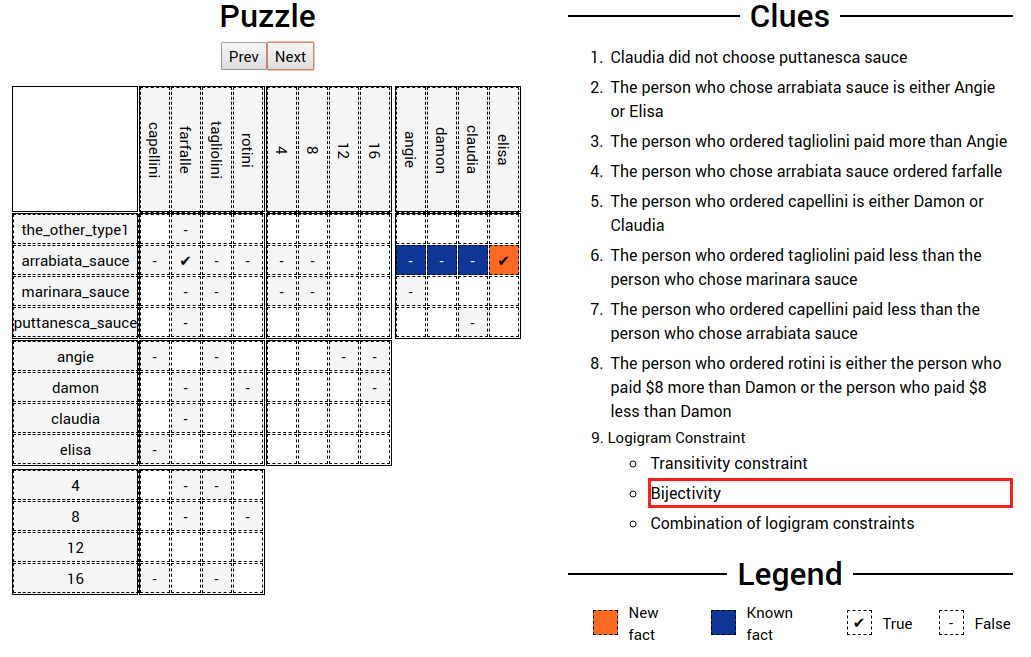
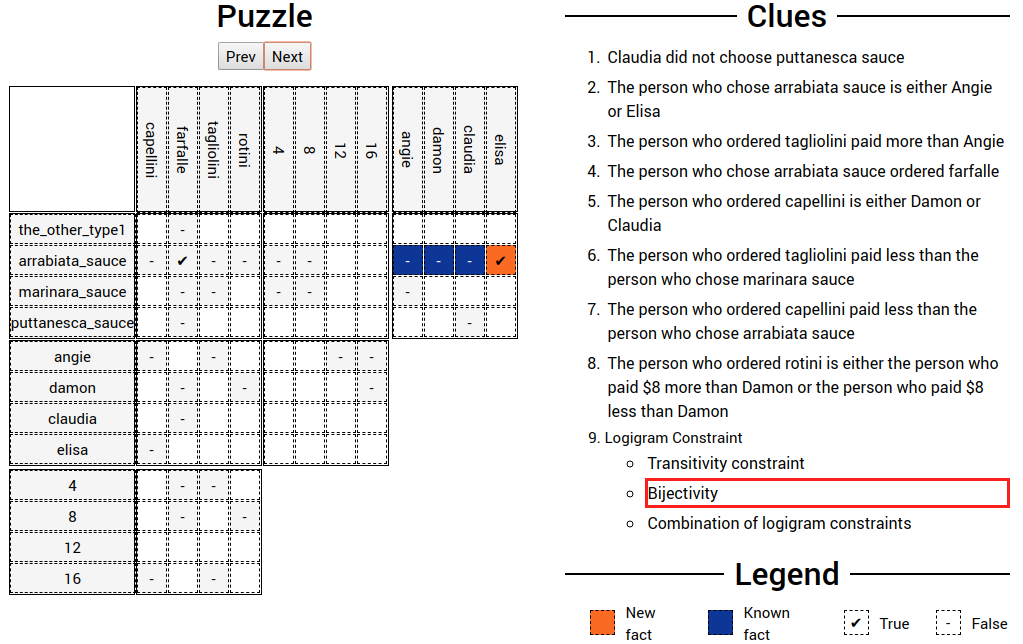
modified graphs to fit

Changed region(s): [[0.0, 0.0, 0.5152, 0.9317], [0.5455, 0.0, 1.0, 0.9938], [0.8182, 0.9317, 1.0, 0.9938]]

diff --git a/latex/ecai20/files/7_experiments.tex b/latex/ecai20/files/7_experiments.tex
@@ -21,7 +21,6 @@ Coincidentally, almost all the puzzles have 4 types with domain size 5,
 %  \todo{EMILIO: FIX, also the table!}, 
 hence 150 cells, except for the pasta puzzle which has 4 types, with domain size 4, thus 96 cells. We notice that the number of inference steps is around 120 for all but the pasta puzzle. When investigating the proportion of the inference steps that use bijections (only), transitivity (only) or a clue, we can see that around 50\% the explanations typically use a transitivity constraint, around 25\% typically a trivial bijectivity constraint (e.g. completing a row or column in one relation), and less then $1/5$th of the explanations actually need to use a clue.
 In the table, \#m-i and \#m-c refer to the use of multiple implicit constraints and multiple clues respectively. We can see that it is never necessary to combine multiple constraints in one inference step. Also, notably, the puzzles from the booklet never require combining implicit constraints, while the anecdotically hard pasta puzzle is the only one that does: it cannot be solved by focussing on the clues but requires combining facts and knowledge in the table alone to crack it.
-
 \begin{table}
 	\centering
 	\resizebox{\columnwidth}{!}{%
@@ -50,28 +49,25 @@ In the table, \#m-i and \#m-c refer to the use of multiple implicit constraints 
 \caption{Composition of puzzle explanations}
 \label{table:composition}
 \end{table}
+\setlength{\parskip}{-12pt}
 
-\addtolength{\parskip}{-0.5cm}
-
-\paragraph{2. Sequence progression}
-Figure \ref{fig:steps} shows a visualisation the type of explanation used at every step of the sequence, for some different puzzles. The red line is the pasta puzzle. We can see that typically at the beginning of the sequence, clues (4th line) and bijectivity (2nd line) are used, i.e., the trivial ones. This is then followed by a round of clues and some bijectivity/transitivity, after which a large fraction of the table can be completed with bijectivity/transitivty, followed by a few last clues and another round of completion.
-\addtolength{\parskip}{0.5cm}
+\myparagraph{2. Sequence progression} Figure \ref{fig:steps} shows a visualisation the type of explanation used at every step of the sequence, for some different puzzles. The red line is the pasta puzzle. We can see that typically at the beginning of the sequence, clues (4th line) and bijectivity (2nd line) are used, i.e., the trivial ones. This is then followed by a round of clues and some bijectivity/transitivity, after which a large fraction of the table can be completed with bijectivity/transitivty, followed by a few last clues and another round of completion.\setlength{\parskip}{0pt}
 
 The exception to this is the pasta puzzle. We can see that after around 20 steps where mostly clues have been used, twice a combination of implicit logigram constraints must be used to derive a new fact, after which the table can be easily completed with bijectivity/transitivity and twice the use of a clue.
 
-\begin{figure*}[t]
+\begin{figure}[H]
 \centering
-% \includegraphics[width=0.32\linewidth]{figures/plot_cost_steps_p12}
 \includegraphics[width=0.32\linewidth]{figures/plot_cost_steps_p18}
 \includegraphics[width=0.32\linewidth]{figures/plot_cost_steps_p25}
-\includegraphics[width=0.32\linewidth]{figures/plot_cost_steps_nielspasta}
-\caption{Type of constraints used in each step}
+\includegraphics[width=0.32\linewidth]{figures/plot_cost_steps_nielspasta}\caption{Type of constraints used in each step}
 \label{fig:steps}
-\end{figure*}
-\todo{in case of space constraints: make figure smaller again. }
+\end{figure}
+%\todo{in case of space constraints: make figure smaller again. }
+\setlength{\parskip}{-12pt}
 
 \myparagraph{3. Explanation size.}
-Our cost-function is constructed to favor few (if any) clues and constraints in the explanations, and few previously derived facts $|E|$. Table~\ref{table:sequence_leve} shows the average number of facts used per explanation. We also show the average number of facts used when using only bijectivity or transitivity, or when a clue is used.
+Our cost-function is constructed to favor few (if any) clues and constraints in the explanations, and few previously derived facts $|E|$. Table~\ref{table:sequence_leve} shows the average number of facts used per explanation. We also show the average number of facts used when using only bijectivity or transitivity, or when a clue is used.\setlength{\parskip}{0pt}
+
 
 We can observe that the average number of facts used is indeed low, less than two. Furthermore, the breakdown shows that bijectivity typically uses more facts: it uses three `negative' facts in one row to infer a `positive' fact, as in Figure~\ref{fig:zebrascreen} or it uses one `positive' fact to infer three negative facts. Note that for such an intuitive constraint, the number of facts used does not matter much. Transitivity, by nature, always uses two previously derived facts. Finally, when looking at the number of facts used together with a clue we can see that our approach successfully finds small explanations: many clues (the trivial ones) use no facts, while some use 1 fact and only occasionally 2 or more facts are needed. The exception is again the difficult pasta puzzle.
 
@@ -110,3 +106,7 @@ We can observe that the average number of facts used is indeed low, less than tw
 % 			pasta & 4 & 5 & 150 & 82 & 34.15 & 40.24 & 21.95 & 2.44 & 0\\ 
 %\paragraph{Bonus. How well does it compare to human solving process ?} 
 % TODO Compare with the tutorial puzzle of logicgridpuzzles.com? Ideally, a small human evaluation (e.g. ask people to solve a 3-with-3 puzzle and note the order of derivations and clues used, compare this `ranking' to our ranking, discuss some differences.
+
+
+
+

diff --git a/latex/ecai20/files/5_good_ordering.tex b/latex/ecai20/files/5_good_ordering.tex
@@ -42,17 +42,19 @@ The effect of this,  is that we can generate our subsets $S$ in Line \ref{alg:mi
 \end{compactitem}
 Summarized, our instantiation for logic grid puzzles differs from the generic methods developed in the previous section in that it uses a domain-specific optimization function $f$ and does not considering all $S$ in Line \ref{alg:min:for}, but only promising candidates based on our observations.
 
+\begin{figure}[ht]
+\centering
+\includegraphics[width=0.8\linewidth]{zebra_screen_2}
+\caption{Demonstration of hard explanation.}
+\label{fig:screen2}
+\end{figure}
+
 For the complete non-redundant explanation sequence our tool produces on the running example using these scoring functions, we refer to \url{http://bartbog.github.io/zebra/pasta}. An example of the hardest derivation we encountered (with cost 28) is depicted in Figure \ref{fig:screen2}. It uses several bijectivity constraints for uniqueness of persons, but also for reasoning on the relation between costs and types of pasta, in combination with a clue and three assumptions.
 Intuitively, the reasoning happening here can be explained as follows: if Farfalle were to cost \$8, then due to the assumptions and bijectivity rotini would cost 16. However, since Damon did not take Farfelle (which we assumed costs \$8), this is in contradiction with the highlighted clue. Hence Farfalle does not cost \$8. 
 % \bart{remove explanation if space problem BUT MAKE SURE CONCLUSION DOES NOT REFER BACK TO THIS}
 
 
-\begin{figure}[t]
-\centering
-\includegraphics[width=1\linewidth]{zebra_screen_2}
-\caption{Demonstration of hard explanation.}
-\label{fig:screen2}
-\end{figure}
+
 
 
 %\tias{We could add a value for the order of the clues, e.g. 0.01*index, to favor higher displayed rules. Also, we could favor 'positive' literals in $N$ by giving these a lower weight, e.g. 0.01 vs 0.1 or smth...}

diff --git a/latex/ecai20/files/1_intro.tex b/latex/ecai20/files/1_intro.tex
@@ -37,6 +37,13 @@ Our guiding principle is that of simplicity, where smaller and simpler explanati
 We choose to represent the constraints in natural language, which is an obvious choice for logic grid puzzles which are given as natural language \textit{clues}. 
 We representing the previously and newly derived facts visually, as can be seen in the grid in Figure~\ref{fig:zebrascreen}.
 
+\begin{figure}[h]
+\centering
+\includegraphics[width=0.8\linewidth]{zebra_screen}
+\caption{Demonstration of explanation visualisation.}
+\label{fig:zebrascreen}
+\end{figure}
+
 %HolyGrail challenge and related work
 Our work is motivated by the ``Holy Grail Challenge''\footnote{\tiny \url{https://freuder.wordpress.com/pthg-19-the- third-workshop-on-progress-towards-the-holy-grail/}} which had as objective to provide automated processing of logic grid puzzles, ranging from natural language processing, to solving, and explanining. 
 An earlier version of our system won the challenge at the workshop. 
@@ -69,10 +76,10 @@ Finally, our measures of simplicity of reasoning steps can be used to estimate t
 %\bart{if space permits :p I don't find this neccesary for a 7page paper}
 
 
-\begin{figure}[t]
-\centering
-\includegraphics[width=1\linewidth]{zebra_screen}
-\caption{Demonstration of explanation visualisation.}
-\label{fig:zebrascreen}
-\end{figure}
+%\begin{figure}[h]
+%\centering
+%\includegraphics[width=0.9\linewidth]{zebra_screen}
+%\caption{Demonstration of explanation visualisation.}
+%\label{fig:zebrascreen}
+%\end{figure}
 

diff --git a/latex/ecai20/holyzebra_ecai.tex b/latex/ecai20/holyzebra_ecai.tex
@@ -12,7 +12,7 @@
 \usepackage[ruled,linesnumbered]{algorithm2e}
 \usepackage{caption}
 \usepackage{subcaption}
-
+\usepackage{float}
 
 \newcommand\m[1]{\ensuremath{#1}\xspace}
 \newcommand\ltrue{\m{\mathbf{t}}}
@@ -94,23 +94,20 @@
 \section{Problem definition}
 \input{files/3_problem_definition}
 
-
 \section{Explanation-producing search}\label{sec:expl-gen-prod}
 \input{files/4_decomposition_prop_unsat}
-
 
 \section{Explanations for logic grid puzzles}\label{sec:zebra}
 \input{files/5_good_ordering}
 
-
 \section{Logic grid puzzles: From natural language clues to typed first-order logic}\label{sec:holistic}
 \input{files/6_pipeline}
 
-
 \section{Experiments}
 \input{files/7_experiments}
-
+\setlength{\parskip}{-12pt}
 \section{Discussion, future work, and conclusions}
+\setlength{\parskip}{0pt}
 \input{files/9_concl}
 \section*{Acknowledgements}
 This research received funding from the Flemish Government under the ``Onderzoeksprogramma Artifici\"ele Intelligentie (AI) Vlaanderen'' programme.

diff --git a/latex/ecai20/files/4_decomposition_prop_unsat.tex b/latex/ecai20/files/4_decomposition_prop_unsat.tex
@@ -173,8 +173,4 @@ Furthermore, in practice, we cache all candidates and when we (re)compute a MUS 
 %\tias{Future idea: if a constraint is fully satisfied, no need to include it in future calls. I guess because the 'propagate' will return empty the overhead is quite limited anyway}
 %\bart{There might be some overhead. THe reason is that in that theory also all the implicit constraints are. In practice they propagate the same for every satisfied clue... } 
 %\tias{OK, so we should try empirically but don't have the time now}
-
-
-
-
 %\textbf{That is it for now... more optimisations are possible, basically in the way we search over the C', like, cache Candidates so that its minimum value is maintained (and do an 'update' to it before starting to potentially clean it); do not search for $C'' \supset C'$ where C' has some explanations; perhaps we can find out that at some point we no longer need to optimalprop some $C'$? (e.g. a 'fully used' clue?)}
